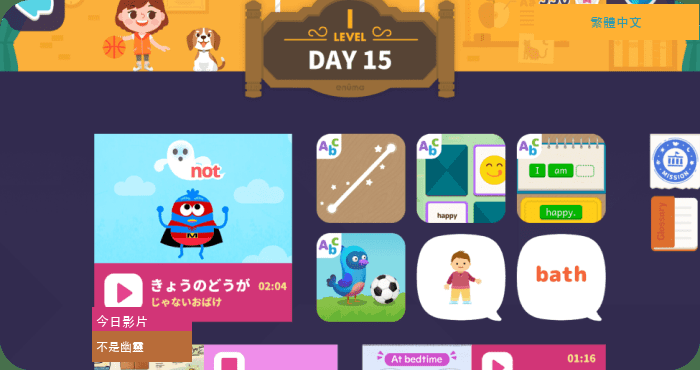
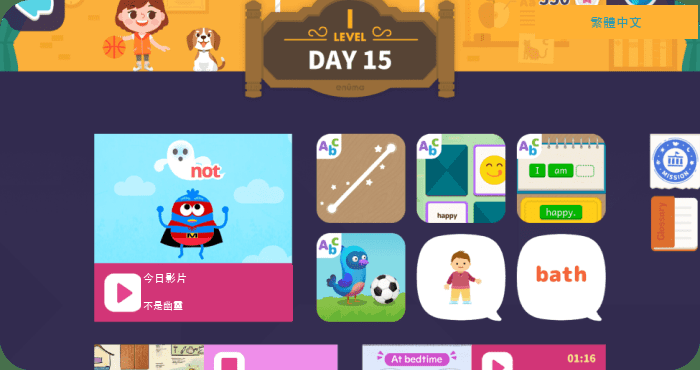
Redo inpainting v3: preserve layout, only replace text pixels
- Pixel-by-pixel approach for ticket shape (experience03): fills only
  pink pixels row-by-row, preserving dog character and gray background
- Fixed day-header y-range (y=685-720, not y=726-762) in slide03-02
- Derived exact character x-centers from pixel scan for correct placement
- Fixed section header background to white (was sampling text pixel)
- Fixed about_slide01-03 video label: covers full pink bar (x=141-292)
- All 6 images now have correct layout, characters, and background preserved

Changed region(s): [[0.12, 0.7432, 0.42, 0.9811], [0.99, 0.0, 1.0, 0.1189]]

diff --git a/inpaint_v3.py b/inpaint_v3.py
@@ -1,0 +1,294 @@
+#!/usr/bin/env python3
+"""
+Inpainting v3: pixel-precise approach.
+- Only touches exact text pixels / tight bounding boxes
+- Preserves all background, characters, layout
+"""
+
+from PIL import Image, ImageDraw, ImageFont
+import os
+
+BASE = '/Users/jiae/Documents/taiwan landing page/assets/img/'
+TW   = '/Users/jiae/Documents/taiwan landing page/assets/img/tw/'
+FONT = '/System/Library/Fonts/STHeiti Medium.ttc'
+
+WHITE = (255, 255, 255, 255)
+DARK  = (48,  43,  80,  255)
+
+def load(path):
+    return Image.open(path).convert('RGBA')
+
+def fnt(size):
+    return ImageFont.truetype(FONT, size)
+
+def save(img, path):
+    img.convert('RGB').save(path, 'PNG')
+    print(f'  ✓ {os.path.basename(path)}')
+
+def paint(draw, img, box, bg, text, fs, color, align='center', px=8, py_off=0):
+    x0, y0, x1, y1 = box
+    draw.rectangle([x0, y0, x1, y1], fill=bg)
+    f = fnt(fs)
+    tb = draw.textbbox((0, 0), text, font=f)
+    tw, th = tb[2]-tb[0], tb[3]-tb[1]
+    bw, bh = x1-x0, y1-y0
+    ty = y0 + max(0, (bh-th)//2) + py_off
+    if align == 'center':
+        tx = x0 + max(0, (bw-tw)//2)
+    elif align == 'right':
+        tx = x1 - tw - px
+    else:
+        tx = x0 + px
+    draw.text((tx, ty), text, fill=color, font=f)
+
+
+# ─── 1. experience_headline.png ───────────────────────────────────────────────
+def do_experience_headline():
+    print('Processing: experience_headline.png')
+    img  = load(BASE + 'experience_headline.png')
+    draw = ImageDraw.Draw(img)
+
+    # Find tight white-text bbox (text spans y=39-101, x=97-516 from scan)
+    # Sample yellow from top-center of ribbon (above text, solid yellow)
+    YELLOW = img.getpixel((298, 32))[:3] + (255,)   # yellow at ribbon center, no text
+
+    # Tight fill: just the text region, not extending to ribbon fold decorations
+    paint(draw, img, (92, 35, 522, 105), YELLOW, '免費體驗能做什麼', 52, WHITE, 'center')
+    save(img, TW + 'experience_headline.png')
+
+
+# ─── 2. experience03.png ──────────────────────────────────────────────────────
+def do_experience03():
+    print('Processing: experience03.png')
+    img  = load(BASE + 'experience03.png')
+    draw = ImageDraw.Draw(img)
+
+    PINK = (247, 65, 156, 255)
+    TEAL = (65,  168, 174, 255)
+
+    # --- Pink ticket: fill row-by-row only within the pink shape ---
+    # For each row, find leftmost/rightmost pink pixel, fill only that span.
+    # This preserves the gray circle background and dog illustration.
+    for py in range(25, 165):
+        left = right = None
+        for px in range(80, 480):
+            r, g, b, a = img.getpixel((px, py))
+            if a < 100:
+                continue
+            # Pink: high red, low green, mid blue
+            if r > 200 and g < 170 and b > 90:
+                if left is None:
+                    left = px
+                right = px
+        if left is not None and right > left:
+            # Fill the pink span (covers old white text + pink bg)
+            draw.line([(left, py), (right, py)], fill=PINK, width=1)
+
+    # Draw two-line Chinese text centered in the ticket
+    # Ticket full extent: x=211-434, y=47-158 (from pixel scan)
+    # Line 1: "最多"
+    f44 = fnt(44)
+    TICKET_X0, TICKET_X1 = 211, 434
+    TICKET_Y0, TICKET_Y1 = 47, 100
+    tb = draw.textbbox((0,0), '最多', font=f44)
+    tw, th = tb[2]-tb[0], tb[3]-tb[1]
+    tx = TICKET_X0 + (TICKET_X1 - TICKET_X0 - tw) // 2
+    ty = TICKET_Y0 + (TICKET_Y1 - TICKET_Y0 - th) // 2
+    draw.text((tx, ty), '最多', fill=WHITE, font=f44)
+
+    # Line 2: "30%折扣"
+    TICKET_Y0b, TICKET_Y1b = 100, 158
+    tb = draw.textbbox((0,0), '30%折扣', font=f44)
+    tw, th = tb[2]-tb[0], tb[3]-tb[1]
+    tx = TICKET_X0 + (TICKET_X1 - TICKET_X0 - tw) // 2
+    ty = TICKET_Y0b + (TICKET_Y1b - TICKET_Y0b - th) // 2
+    draw.text((tx, ty), '30%折扣', fill=WHITE, font=f44)
+
+    # --- Teal band: tight fill around just the text ---
+    # Text bbox from scan: y=250-310, x=170-428
+    # Pad by 6px; teal band bg is solid
+    paint(draw, img, (165, 246, 432, 315), TEAL, '歡迎優惠券', 34, WHITE, 'center')
+
+    save(img, TW + 'experience03.png')
+
+
+# ─── 3. about_slide03-01.png ─────────────────────────────────────────────────
+def do_slide03_01():
+    print('Processing: about_slide03-01.png')
+    img  = load(BASE + 'about_slide03-01.png')
+    draw = ImageDraw.Draw(img)
+    BLUE = (141, 171, 216, 255)
+
+    # ① "トド英語" header (blue bg)
+    paint(draw, img, (335, 165, 510, 208), BLUE, '都都英語', 26, DARK, 'left')
+
+    # ② Speech bubble
+    paint(draw, img, (140, 475, 610, 512), WHITE, '學習通知已送達！', 22, DARK, 'left')
+
+    # ③–⑦ Card 1
+    paint(draw, img, (130, 609, 300, 643), WHITE, 'Jenny',               22, DARK, 'left')
+    paint(draw, img, (130, 661, 590, 697), WHITE, '學習等級：等級G Unit21', 20, DARK, 'left')
+    paint(draw, img, (130, 714, 420, 751), WHITE, '學習日：9月13日',        20, DARK, 'left')
+    paint(draw, img, (130, 767, 455, 804), WHITE, '開始時間：20:05',        20, DARK, 'left')
+    paint(draw, img, (130, 821, 390, 857), WHITE, '學習時間：35分鐘',        20, DARK, 'left')
+
+    # ⑧ Card 2
+    paint(draw, img, (133, 958, 535, 995), WHITE, '學習了以下內容。',        20, DARK, 'left')
+
+    save(img, TW + 'about_slide03-01.png')
+
+
+# ─── 4. experience01.png ─────────────────────────────────────────────────────
+def do_experience01():
+    print('Processing: experience01.png')
+    img  = load(BASE + 'experience01.png')
+    draw = ImageDraw.Draw(img)
+    BLUE = (141, 171, 216, 255)
+    W    = img.width   # 600
+
+    NX = 270  # notification panel left edge
+
+    # ① Header
+    paint(draw, img, (NX+45, 48, NX+200, 82), BLUE, '都都英語', 18, DARK, 'left')
+
+    # ② Speech bubble
+    paint(draw, img, (NX+5, 107, W-15, 141), WHITE, '學習通知已送達！', 15, DARK, 'left')
+
+    # ③ Card 1
+    paint(draw, img, (NX+5, 158, NX+130, 180), WHITE, 'Jenny',                  14, DARK, 'left')
+    paint(draw, img, (NX+5, 180, W-15,   202), WHITE, '學習等級：等級G Unit21',   13, DARK, 'left')
+    paint(draw, img, (NX+5, 202, W-15,   222), WHITE, '學習日：9月13日',          13, DARK, 'left')
+    paint(draw, img, (NX+5, 222, W-15,   243), WHITE, '開始時間：20:05',          13, DARK, 'left')
+    paint(draw, img, (NX+5, 243, W-15,   265), WHITE, '學習時間：35分鐘',         13, DARK, 'left')
+
+    # ④ Card 2
+    paint(draw, img, (NX+5, 288, W-15, 310), WHITE, '學習了以下內容。', 13, DARK, 'left')
+
+    save(img, TW + 'experience01.png')
+
+
+# ─── 5. about_slide03-02.png ─────────────────────────────────────────────────
+def do_slide03_02():
+    print('Processing: about_slide03-02.png')
+    img  = load(BASE + 'about_slide03-02.png')
+    draw = ImageDraw.Draw(img)
+
+    APP_BG  = (246, 246, 248, 255)   # verified app background color
+    WHITE4  = (255, 255, 255, 255)
+    RED     = (180,   0,   0, 255)
+    LINK_CLR = (100, 100, 220, 255)  # purple link color
+
+    # ① "料金プラン" button → "付費方案"
+    # Sample button bg/text from original
+    BTN_BG  = img.getpixel((640, 140))[:3] + (255,)
+    BTN_TXT = img.getpixel((620, 140))[:3] + (255,)
+    # Cover wider than needed to catch all anti-aliased text
+    paint(draw, img, (406, 116, 724, 162), BTN_BG, '付費方案', 22, BTN_TXT, 'center')
+
+    # ② "週間学習内容" → "週間學習內容"
+    # Section text is at y=467-501. Background is WHITE in this area (from scan y=455-465)
+    # Cover ONLY the left text (x=88-290) with white, redraw
+    paint(draw, img, (85, 462, 298, 506), WHITE4, '週間學習內容', 24, DARK, 'left')
+
+    # ③ "学習進度をみる" → "查看學習進度"
+    # Right side of section row (x=520-695)
+    paint(draw, img, (518, 462, 698, 506), WHITE4, '查看學習進度', 20, LINK_CLR, 'right', px=6)
+
+    # ④ Calendar title
+    CAL_BG  = img.getpixel((400, 622))[:3] + (255,)
+    CAL_TXT = img.getpixel((310, 622))[:3] + (255,)
+    paint(draw, img, (148, 604, 660, 641), CAL_BG, '2022年4月第3週', 22, CAL_TXT, 'center')
+
+    # ⑤ Day-of-week headers
+    # Pixel scan confirmed: day names are at y=691-714, x≈68-728
+    # Character x-centers (from scan at y=710): 150,233,315,399,482,565,647
+    day_centers = [150, 233, 315, 399, 482, 565, 647]
+    days_tw     = ['一', '二', '三', '四', '五', '六', '日']
+    day_colors  = [DARK]*5 + [RED]*2
+
+    # Cover the full day-header row
+    draw.rectangle([68, 685, 728, 720], fill=APP_BG)
+
+    # Draw each day centered at original character's x position
+    f_day = fnt(18)
+    for i, (day, col) in enumerate(zip(days_tw, day_colors)):
+        cx = day_centers[i]
+        cx0 = 68  if i == 0 else (day_centers[i-1] + cx) // 2
+        cx1 = 728 if i == 6 else (cx + day_centers[i+1]) // 2
+        tb = draw.textbbox((0,0), day, font=f_day)
+        tw = tb[2]-tb[0]; th = tb[3]-tb[1]
+        tx = cx0 + (cx1 - cx0 - tw) // 2
+        ty = 685 + (35 - th) // 2
+        draw.text((tx, ty), day, fill=col, font=f_day)
+
+    # ⑥ "詳しくはこちら" → "點此查看詳情"
+    # Background is white at (500,1280) and (400,1282)
+    BTN2_BG  = img.getpixel((500, 1280))[:3] + (255,)
+    BTN2_TXT = img.getpixel((600, 1282))[:3] + (255,)
+    paint(draw, img, (292, 1244, 718, 1319), BTN2_BG, '點此查看詳情', 32, BTN2_TXT, 'center')
+
+    save(img, TW + 'about_slide03-02.png')
+
+
+# ─── 6. about_slide01-03.png ─────────────────────────────────────────────────
+def do_slide01_03():
+    print('Processing: about_slide01-03.png')
+    img  = load(BASE + 'about_slide01-03.png')
+    draw = ImageDraw.Draw(img)
+
+    # ① Language selector "日本語" → "繁體中文"  (orange bg, top-right)
+    LANG_BG  = img.getpixel((555, 22))[:3] + (255,)
+    LANG_TXT = img.getpixel((640, 22))[:3] + (255,)
+    paint(draw, img, (535, 5, 697, 38), LANG_BG, '繁體中文', 13, LANG_TXT, 'center')
+
+    # Pink bar: uniform solid pink (210,53,119), x=96-207, y=265-320.
+    # Play button (▶) x=105-141 — leave it intact.
+    # Text region (label + time + subtitle): x=141-207.
+    # Erase entire text region with solid pink, then draw Chinese two lines.
+    PINK_BG = (210, 53, 119, 255)   # exact sampled pink
+
+    # Pink bar extends x=96-292 (wider than expected).
+    # Erase entire text region (right of play button) with solid pink
+    draw.rectangle([141, 265, 292, 320], fill=PINK_BG)
+
+    # Draw line 1 "今日影片" in upper portion
+    f1 = fnt(11)
+    tb = draw.textbbox((0,0), '今日影片', font=f1)
+    th1 = tb[3]-tb[1]
+    draw.text((143, 265 + (26 - th1)//2), '今日影片', fill=WHITE, font=f1)
+
+    # Draw line 2 "不是幽靈" in lower portion
+    f2 = fnt(10)
+    tb = draw.textbbox((0,0), '不是幽靈', font=f2)
+    th2 = tb[3]-tb[1]
+    draw.text((143, 291 + (29 - th2)//2), '不是幽靈', fill=WHITE, font=f2)
+
+    save(img, TW + 'about_slide01-03.png')
+
+
+# ─── HTML update ─────────────────────────────────────────────────────────────
+def update_html():
+    path = '/Users/jiae/Documents/taiwan landing page/index_tw.html'
+    with open(path, 'r', encoding='utf-8') as f:
+        content = f.read()
+    old = 'src="assets/img/about_slide01-03.png"'
+    new = 'src="assets/img/tw/about_slide01-03.png"'
+    if old in content:
+        content = content.replace(old, new)
+        with open(path, 'w', encoding='utf-8') as f:
+            f.write(content)
+        print('  ✓ index_tw.html → tw/about_slide01-03.png')
+    else:
+        print('  (index_tw.html already up-to-date)')
+
+
+if __name__ == '__main__':
+    print('Inpainting v3...\n')
+    do_experience_headline()
+    do_experience03()
+    do_slide03_01()
+    do_experience01()
+    do_slide03_02()
+    do_slide01_03()
+    update_html()
+    print('\nDone.')
